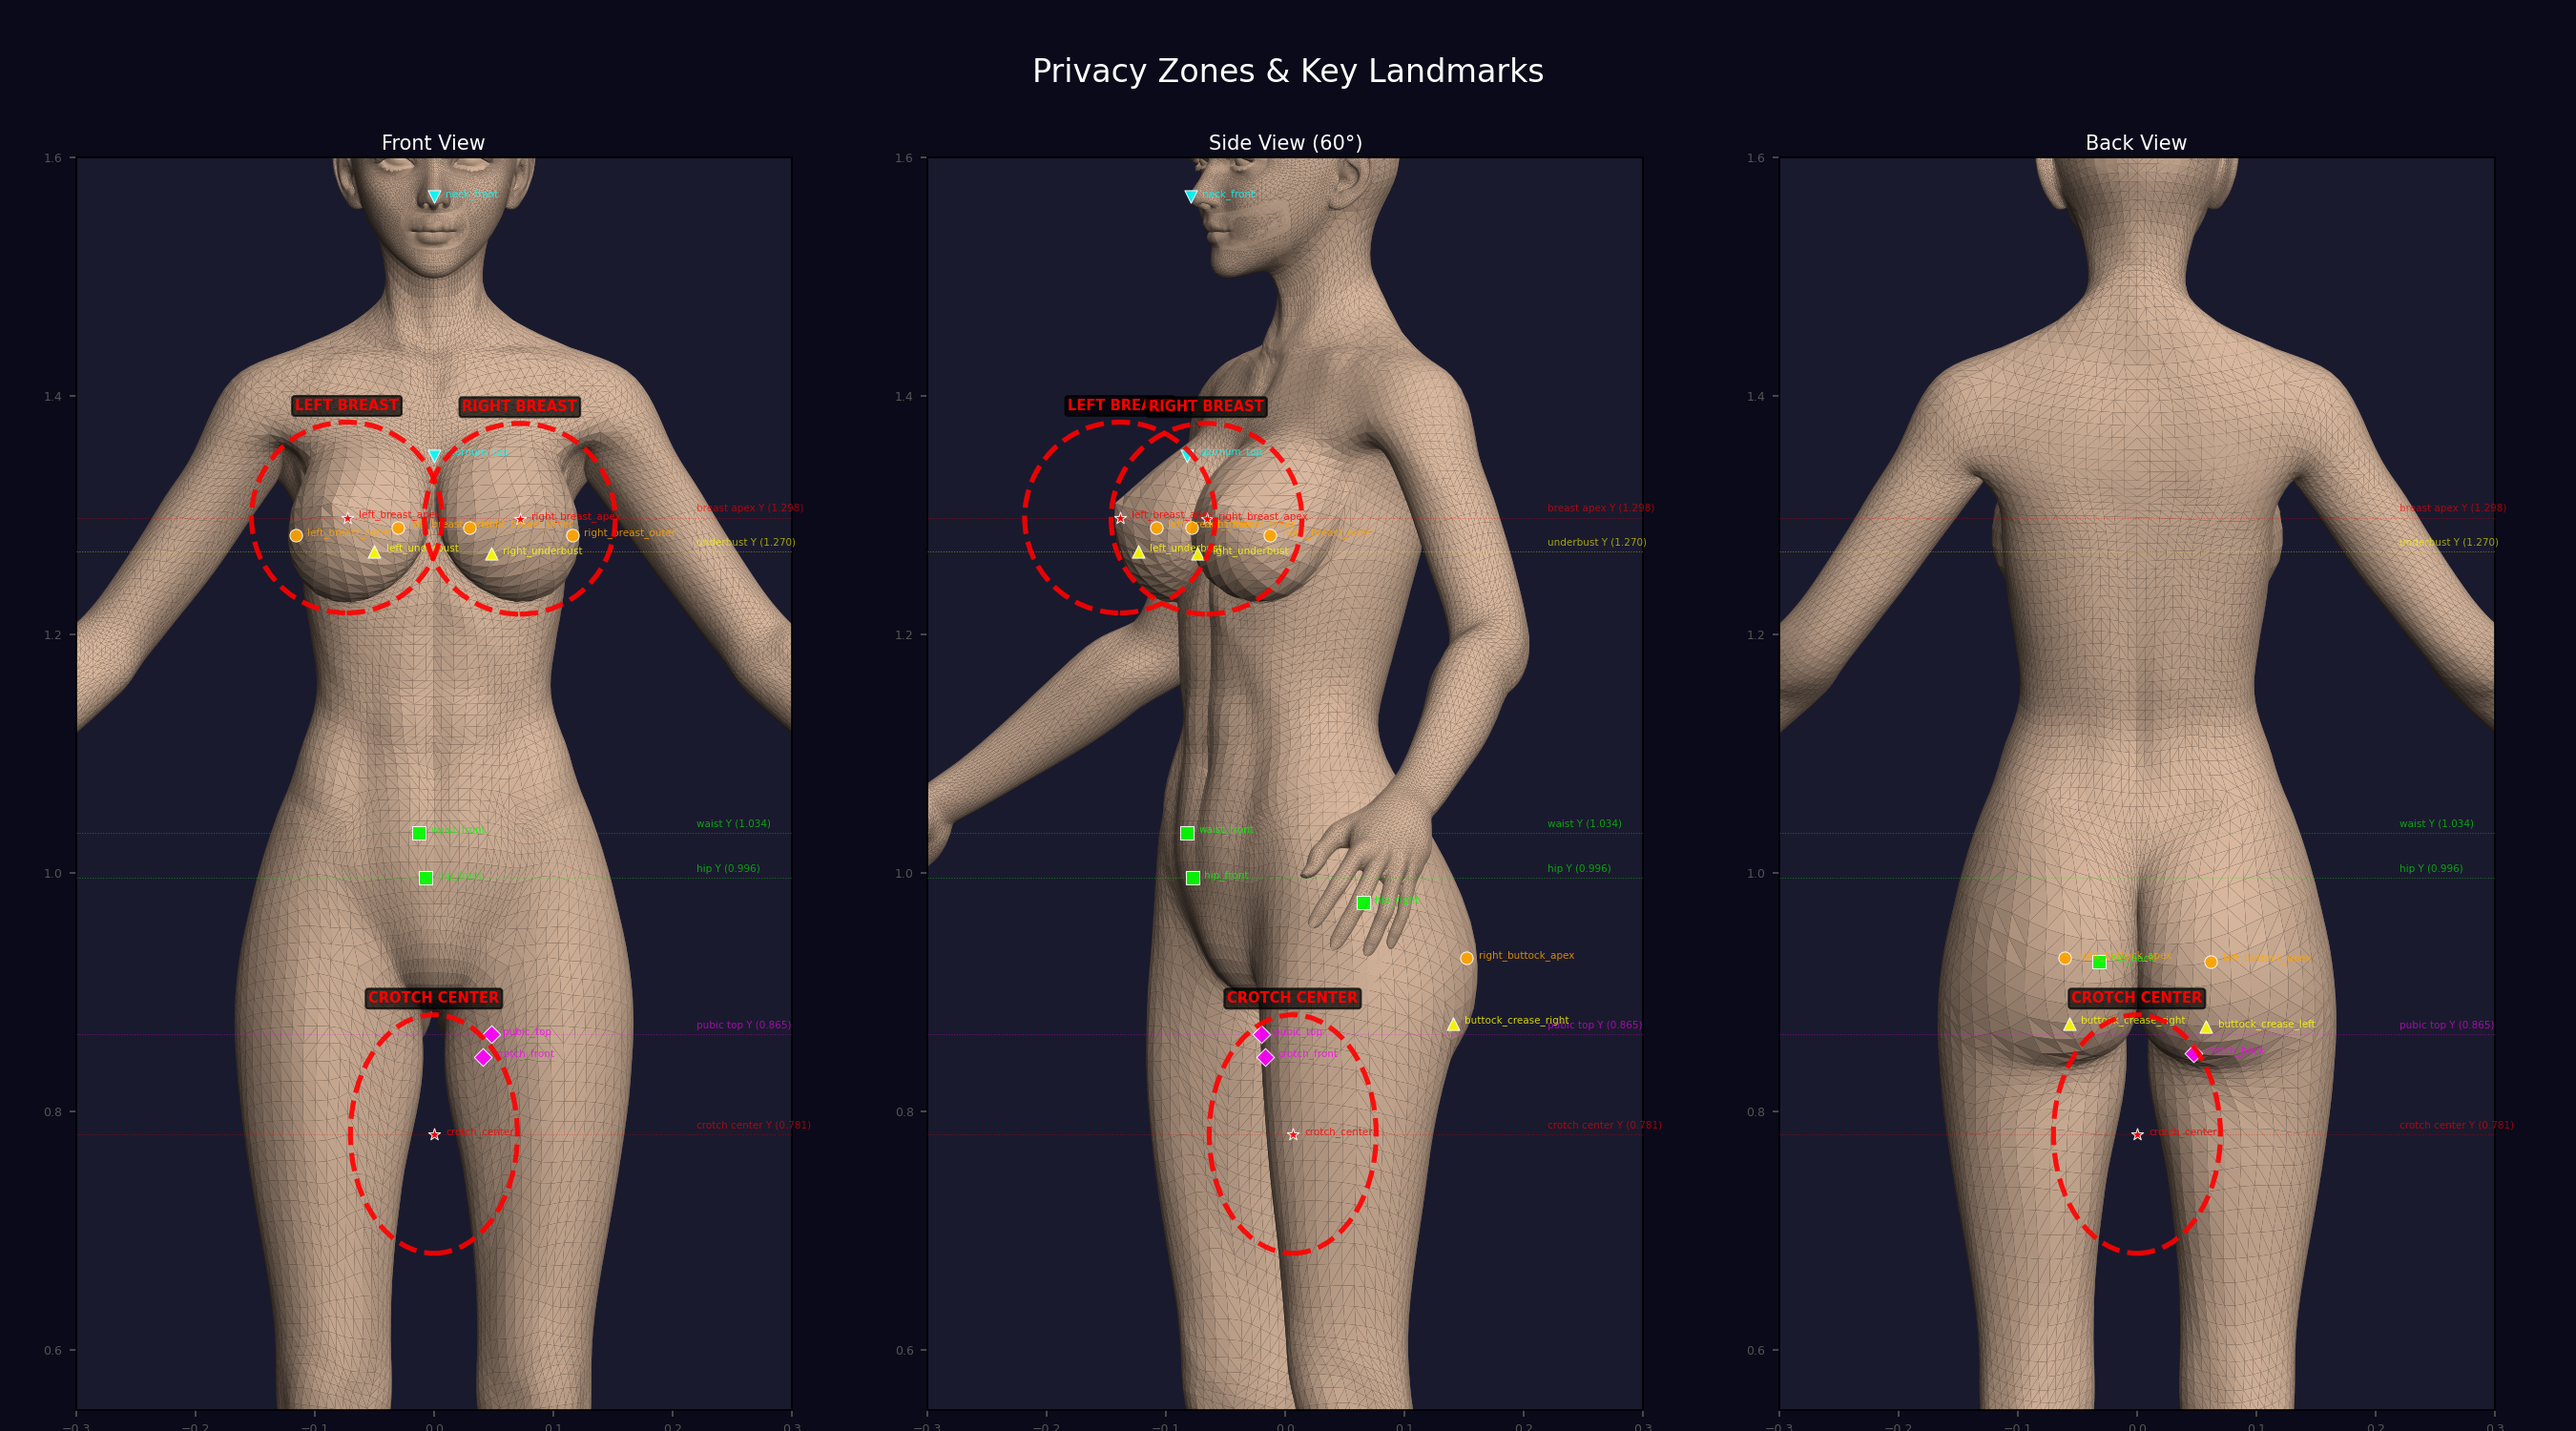
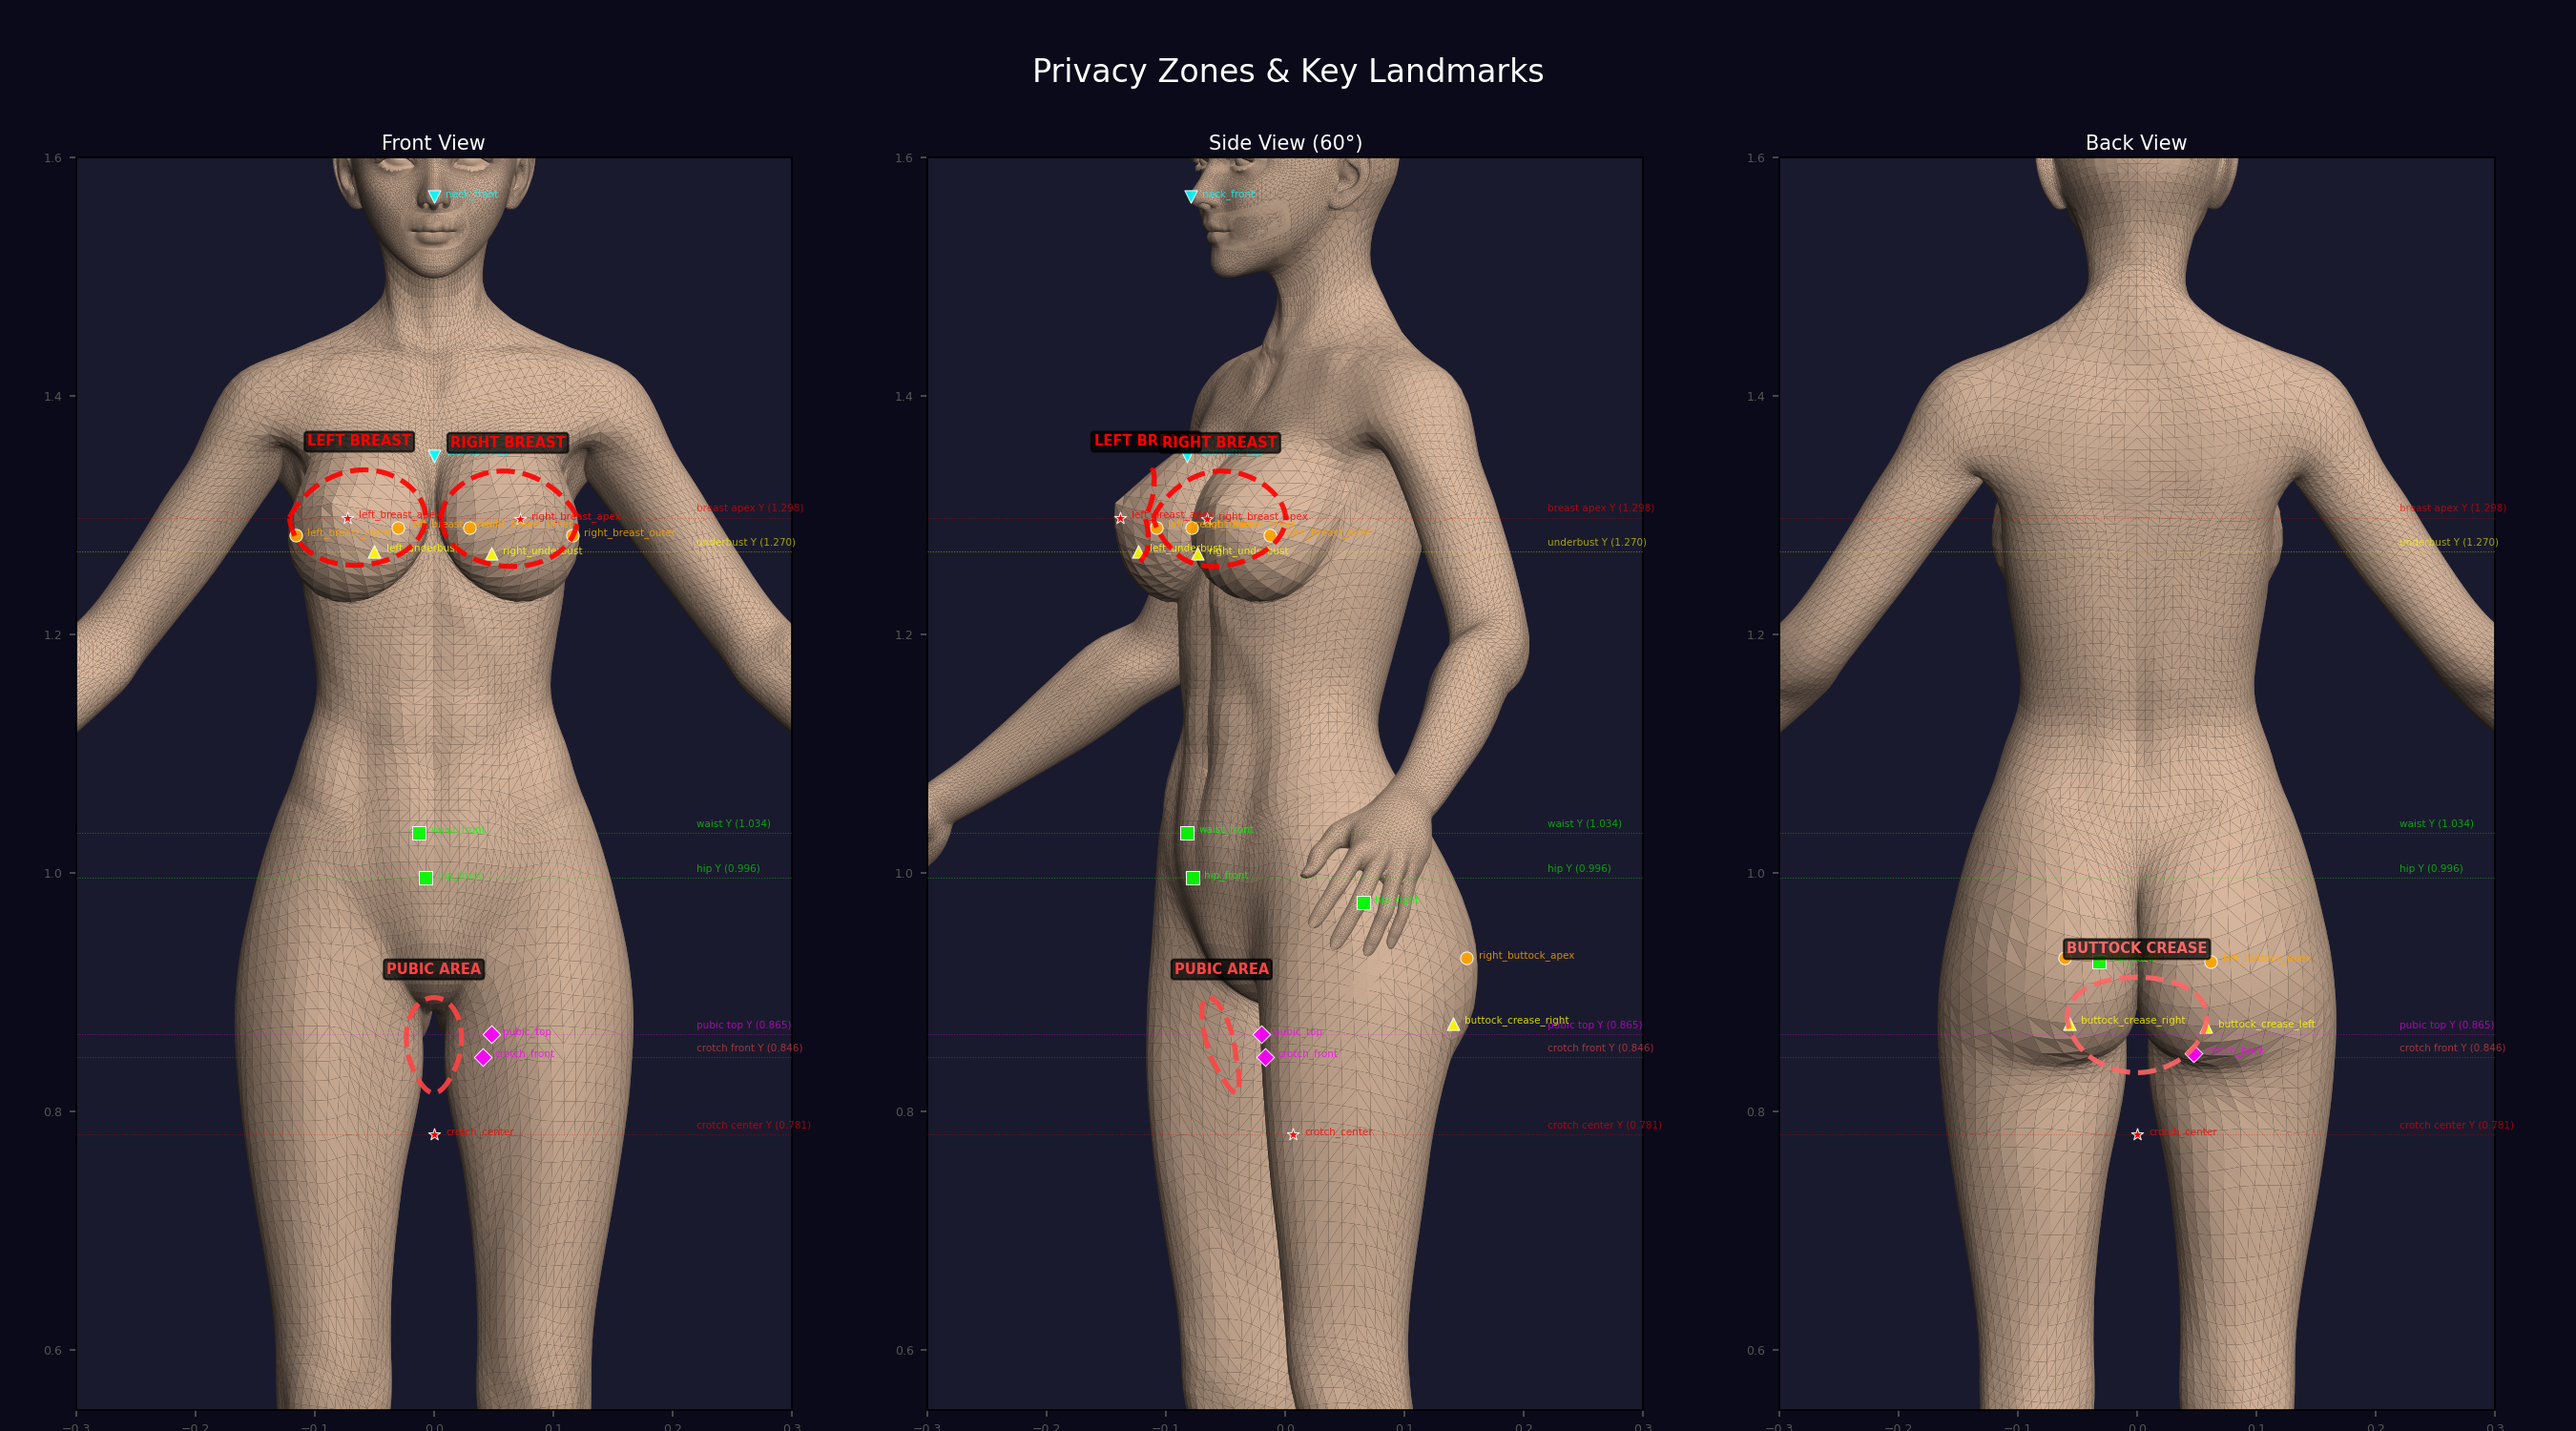
fix: privacy zones now use correct center position and 3D body surface projection
- Moved pubic privacy center from crotch_center (Y=0.781) up to
  pubic_top/crotch_front midpoint (Y=0.855)
- Privacy zone curves now sampled on body surface in (Y,theta) space
  and projected in 3D, instead of flat 2D ellipses facing camera
- Added buttock crease zone for back view

https://claude.ai/code/session_01CGx4kTKQHwBokzENgDgNYu

diff --git a/debug_privacy_zones.py b/debug_privacy_zones.py
@@ -1,4 +1,7 @@
-"""Generate debug image marking privacy zone positions on the body."""
+"""Generate debug image marking privacy zone positions on the body.
+
+Privacy zones are drawn as 3D curves on the body surface, not flat 2D ellipses.
+"""
 import sys, os
 sys.path.insert(0, os.path.dirname(os.path.abspath(__file__)))
 
@@ -7,15 +10,16 @@ import matplotlib
 matplotlib.use('Agg')
 import matplotlib.pyplot as plt
 from matplotlib.collections import PolyCollection
-from matplotlib.patches import Ellipse
 
 from bikini_generator.body.mannequin import generate_full_body
 from bikini_generator.body.landmarks import get_landmarks
+from bikini_generator.garment.loop_generator import BodySurface
 
 
 def render_body(ax, body_verts, body_faces, azimuth=0, title=""):
-    """Render body with painter's algorithm."""
+    """Render body with painter's algorithm. Returns rotate function."""
     cos_a, sin_a = np.cos(azimuth), np.sin(azimuth)
+
     def rotate(v):
         x = v[:, 0] * cos_a - v[:, 2] * sin_a
         z = v[:, 0] * sin_a + v[:, 2] * cos_a
@@ -59,9 +63,85 @@ def render_body(ax, body_verts, body_faces, azimuth=0, title=""):
     return rotate
 
 
+def sample_surface_ellipse(body_surface, center_y, center_theta,
+                           radius_y, radius_theta, n_pts=80, offset=0.002):
+    """Sample a closed curve on the body surface around a center point.
+
+    The ellipse is defined in (Y, theta) parameter space, then each point
+    is placed on the body surface at the correct 3D radius.
+
+    Returns: (n_pts, 3) array of 3D points on the body surface.
+    """
+    pts = np.zeros((n_pts, 3))
+    for i in range(n_pts):
+        t = 2 * np.pi * i / n_pts
+        # Parametric ellipse in (Y, theta) space
+        dy = radius_y * np.sin(t)
+        dtheta = radius_theta * np.cos(t)
+
+        y = center_y + dy
+        theta = center_theta + dtheta
+
+        # Get body surface radius at this (y, theta)
+        r = body_surface.get_surface_radius(y, theta) + offset
+
+        # Convert cylindrical to cartesian
+        # theta: 0=+Z (front), pi/2=-X (left), pi=-Z (back)
+        x = -np.sin(theta) * r
+        z = np.cos(theta) * r
+
+        pts[i] = [x, y, z]
+    return pts
+
+
+def draw_surface_zone(ax, rotate_fn, pts3d, color, label, label_offset_y=0.02):
+    """Draw a 3D surface curve projected to 2D view."""
+    rpts = rotate_fn(pts3d)
+
+    # Use the average z to determine visibility
+    avg_z = rpts[:, 2].mean()
+    if avg_z < -0.05:
+        return  # behind body in this view
+
+    # Close the loop
+    xs = np.append(rpts[:, 0], rpts[0, 0])
+    ys = np.append(rpts[:, 1], rpts[0, 1])
+
+    # Only draw segments that face the camera (z > threshold)
+    # Split into visible segments
+    z_vals = np.append(rpts[:, 2], rpts[0, 2])
+    visible = z_vals > -0.02
+
+    # Draw visible segments
+    i = 0
+    while i < len(xs) - 1:
+        if visible[i] and visible[i + 1]:
+            # Find contiguous visible segment
+            seg_x = [xs[i]]
+            seg_y = [ys[i]]
+            while i < len(xs) - 1 and visible[i] and visible[i + 1]:
+                seg_x.append(xs[i + 1])
+                seg_y.append(ys[i + 1])
+                i += 1
+            ax.plot(seg_x, seg_y, color=color, linewidth=2.5,
+                    linestyle='--', zorder=50, alpha=0.9)
+        else:
+            i += 1
+
+    # Label at top of zone
+    center_2d = rpts[:, :2].mean(axis=0)
+    top_y = rpts[:, 1].max()
+    ax.annotate(label, (center_2d[0], top_y + label_offset_y),
+                color=color, fontsize=7, ha='center',
+                fontweight='bold', zorder=51,
+                bbox=dict(boxstyle='round,pad=0.2',
+                          facecolor='black', alpha=0.7))
+
+
 def main():
     body_verts, body_faces = generate_full_body()
     lm = get_landmarks()
+    body_surface = BodySurface()
 
     fig, axes = plt.subplots(1, 3, figsize=(18, 10))
     fig.patch.set_facecolor('#0a0a1a')
@@ -69,16 +149,63 @@ def main():
 
     views = [
         (axes[0], 0, "Front View"),
-        (axes[1], np.pi/3, "Side View (60°)"),
+        (axes[1], np.pi / 3, "Side View (60\u00b0)"),
         (axes[2], np.pi, "Back View"),
     ]
 
-    # Define privacy zones and landmarks to mark
+    # Privacy zone definitions:
+    # center_y, center_theta, radius_y, radius_theta
+    # theta: 0=front(+Z), pi=back(-Z)
+    #
+    # The actual pubic privacy center is around pubic_top/crotch_front,
+    # NOT at crotch_center (which is the very bottom between legs).
+    pubic_center_y = (lm["pubic_top"][1] + lm["crotch_front"][1]) / 2  # ~0.855
     privacy_zones = [
-        ("LEFT BREAST", lm["left_breast_apex"], 'red', 0.08, 0.08),
-        ("RIGHT BREAST", lm["right_breast_apex"], 'red', 0.08, 0.08),
-        ("CROTCH CENTER", lm["crotch_center"], 'red', 0.07, 0.10),
+        {
+            "name": "LEFT BREAST",
+            "center_y": lm["left_breast_apex"][1],  # 1.298
+            "center_theta": np.arctan2(-lm["left_breast_apex"][0],
+                                        lm["left_breast_apex"][2]),
+            "radius_y": 0.04,
+            "radius_theta": 0.5,  # ~30 degrees
+            "color": "red",
+        },
+        {
+            "name": "RIGHT BREAST",
+            "center_y": lm["right_breast_apex"][1],
+            "center_theta": np.arctan2(-lm["right_breast_apex"][0],
+                                        lm["right_breast_apex"][2]),
+            "radius_y": 0.04,
+            "radius_theta": 0.5,
+            "color": "red",
+        },
+        {
+            "name": "PUBIC AREA",
+            "center_y": pubic_center_y,
+            "center_theta": 0.0,  # front center
+            "radius_y": 0.04,  # ~4cm up/down from center
+            "radius_theta": 0.35,  # ~20 degrees left/right
+            "color": "#ff4444",
+        },
+        {
+            "name": "BUTTOCK CREASE",
+            "center_y": (lm["buttock_crease_left"][1] + lm["buttock_crease_right"][1]) / 2,
+            "center_theta": np.pi,  # back center
+            "radius_y": 0.04,
+            "radius_theta": 0.5,
+            "color": "#ff6666",
+        },
     ]
+
+    # Pre-sample all zone curves in 3D
+    zone_curves = []
+    for zone in privacy_zones:
+        pts = sample_surface_ellipse(
+            body_surface,
+            zone["center_y"], zone["center_theta"],
+            zone["radius_y"], zone["radius_theta"],
+        )
+        zone_curves.append(pts)
 
     key_landmarks = {
         "neck_front": ('cyan', 'v'),
@@ -109,24 +236,9 @@ def main():
     for ax, azimuth, title in views:
         rotate = render_body(ax, body_verts, body_faces, azimuth, title)
 
-        # Draw privacy zone ellipses
-        for name, center, color, rx, ry in privacy_zones:
-            pt3d = np.array([center])
-            rpt = rotate(pt3d)[0]
-
-            # Only draw if facing this view
-            if rpt[2] > -0.05:  # not behind
-                ellipse = Ellipse(
-                    (rpt[0], rpt[1]), rx * 2, ry * 2,
-                    fill=False, edgecolor=color, linewidth=2.5,
-                    linestyle='--', zorder=50, alpha=0.9,
-                )
-                ax.add_patch(ellipse)
-                ax.annotate(name, (rpt[0], rpt[1] + ry + 0.01),
-                            color=color, fontsize=7, ha='center',
-                            fontweight='bold', zorder=51,
-                            bbox=dict(boxstyle='round,pad=0.2',
-                                      facecolor='black', alpha=0.7))
+        # Draw privacy zones as 3D curves on body surface
+        for zone, pts3d in zip(privacy_zones, zone_curves):
+            draw_surface_zone(ax, rotate, pts3d, zone["color"], zone["name"])
 
         # Draw landmarks
         for lm_name, (color, marker) in key_landmarks.items():
@@ -148,10 +260,11 @@ def main():
             ("waist Y", lm["waist_front"][1], 'lime'),
             ("hip Y", lm["hip_front"][1], 'lime'),
             ("pubic top Y", lm["pubic_top"][1], 'magenta'),
+            ("crotch front Y", lm["crotch_front"][1], '#ff4444'),
             ("crotch center Y", lm["crotch_center"][1], 'red'),
         ]:
             ax.axhline(y=y_val, color=color, linewidth=0.5,
-                        linestyle=':', alpha=0.4, zorder=5)
+                       linestyle=':', alpha=0.4, zorder=5)
             ax.text(0.22, y_val + 0.005, f"{label} ({y_val:.3f})",
                     color=color, fontsize=5, alpha=0.6, zorder=6)
 
